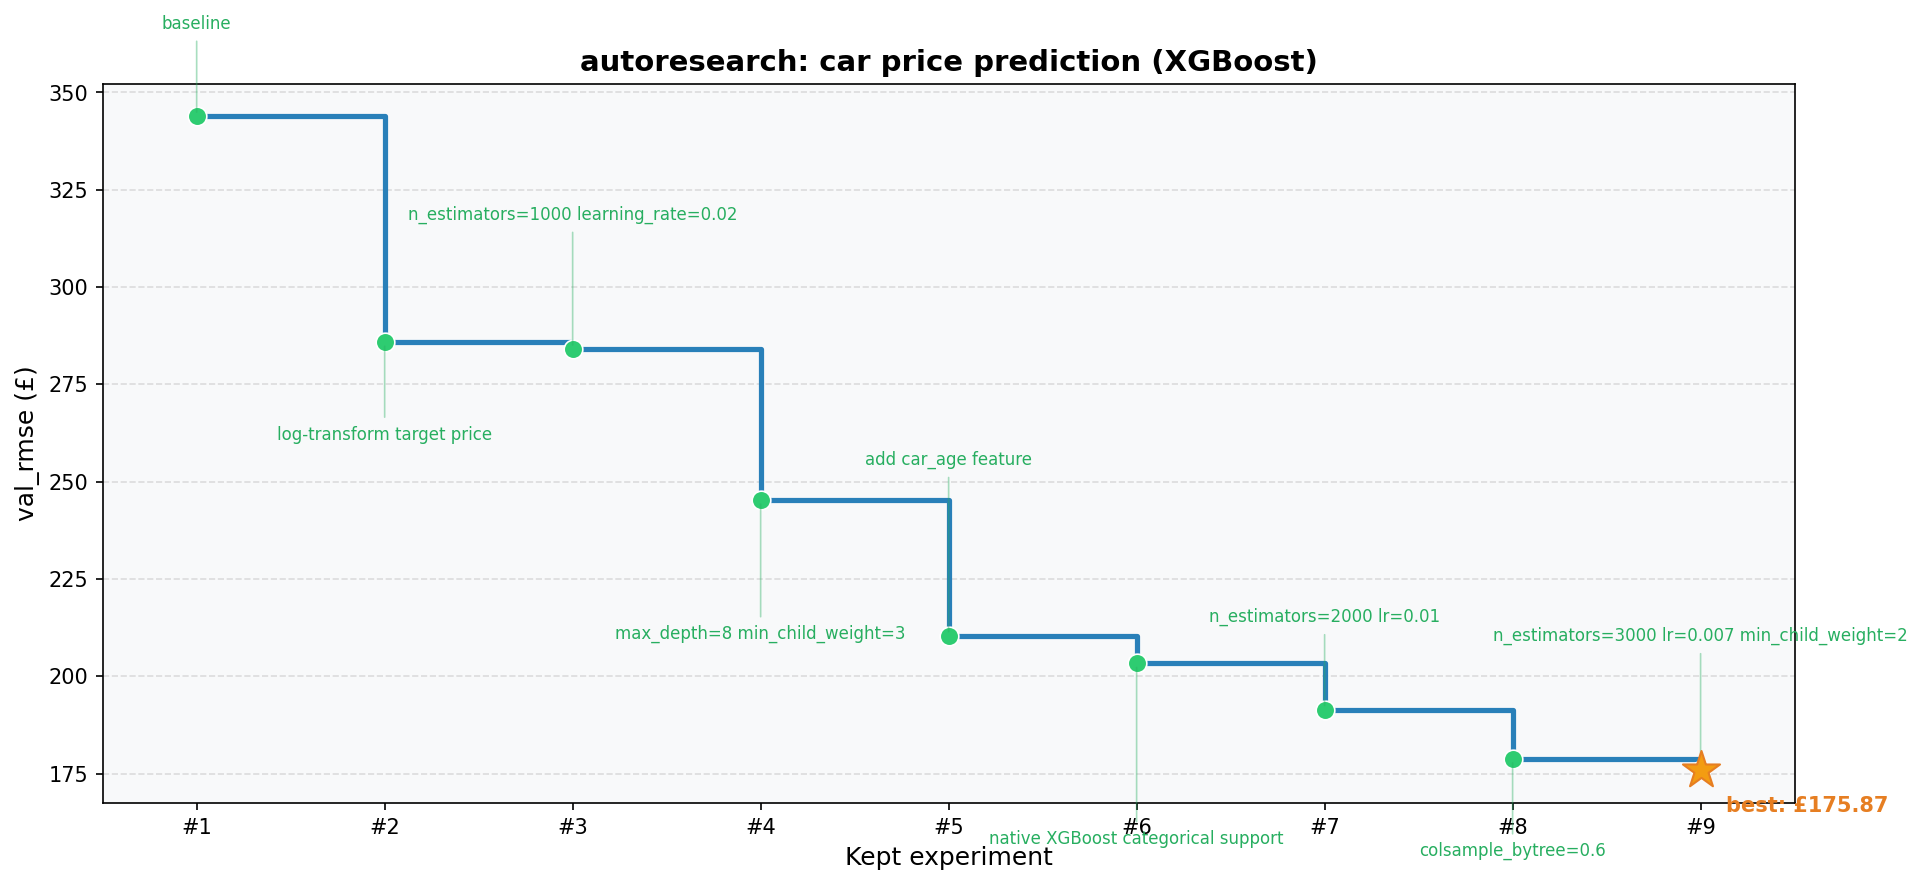
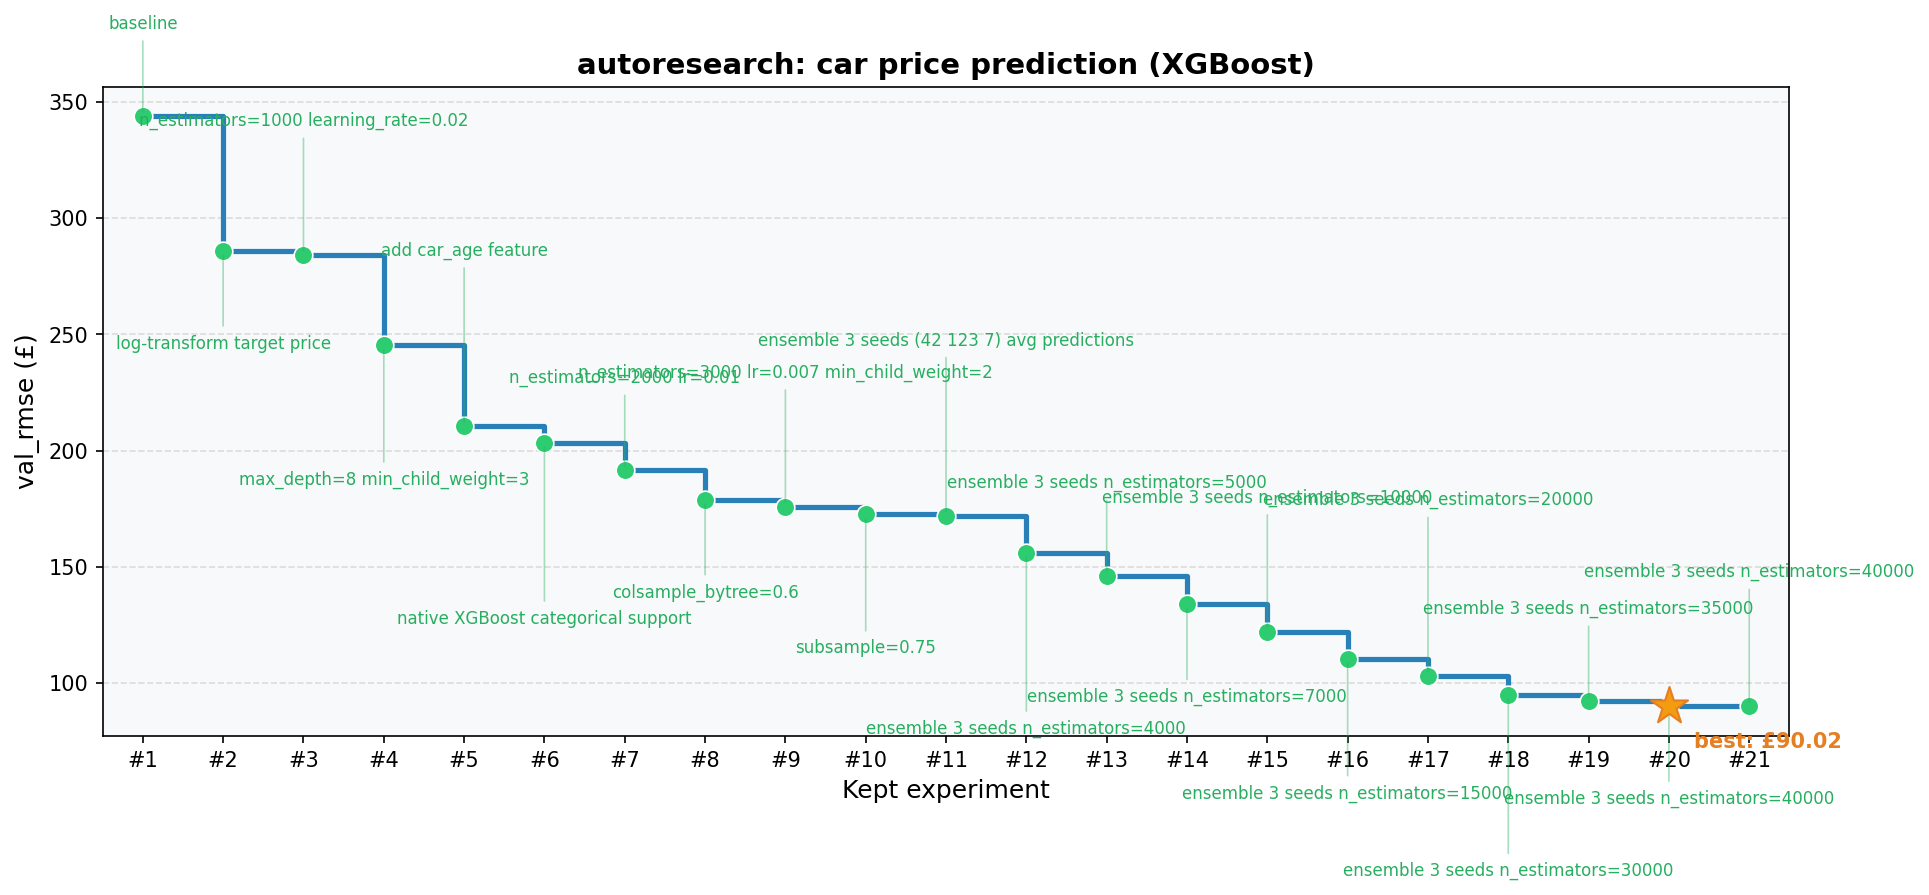
ensemble 3 seeds n_estimators=45000: val_rmse 88.23

diff --git a/train.py b/train.py
@@ -37,7 +37,7 @@ y_val = val_df[TARGET]
 # ---------------------------------------------------------------------------
 
 params = dict(
-    n_estimators=40000,
+    n_estimators=45000,
     learning_rate=0.007,
     max_depth=8,
     subsample=0.75,
